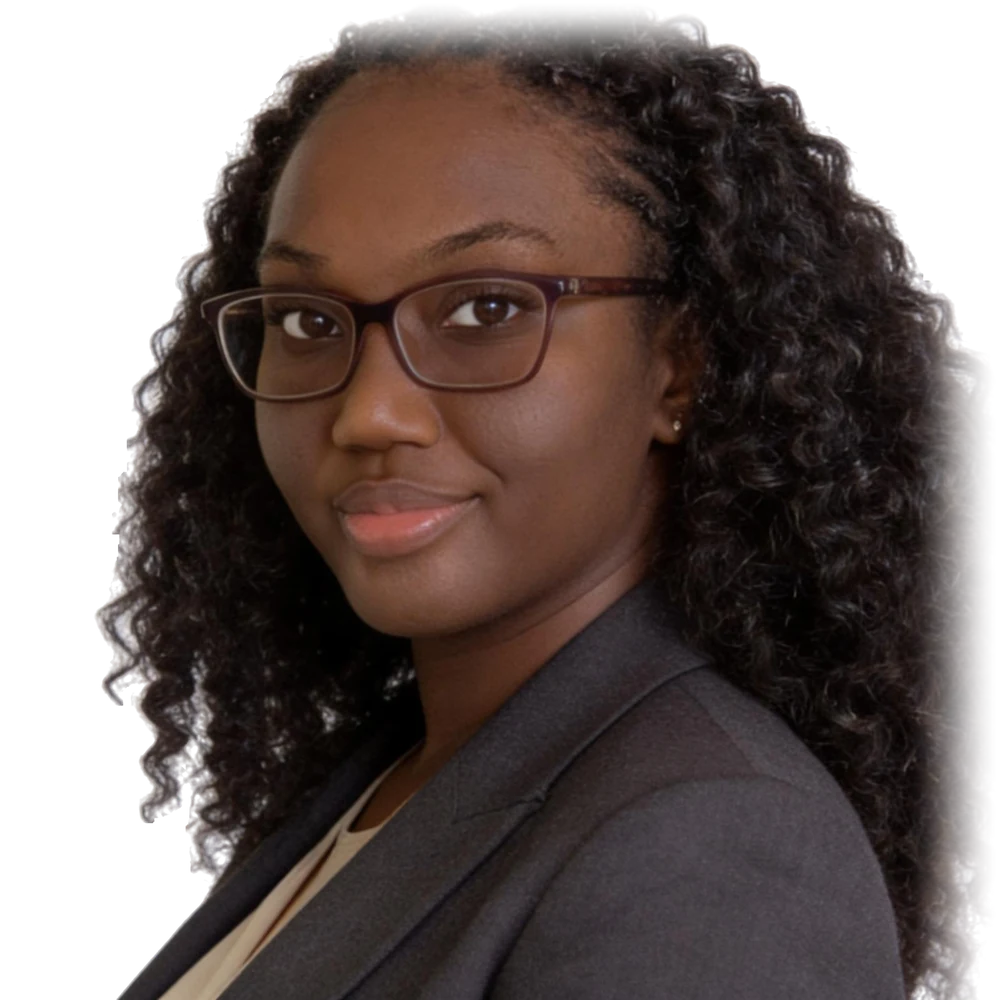
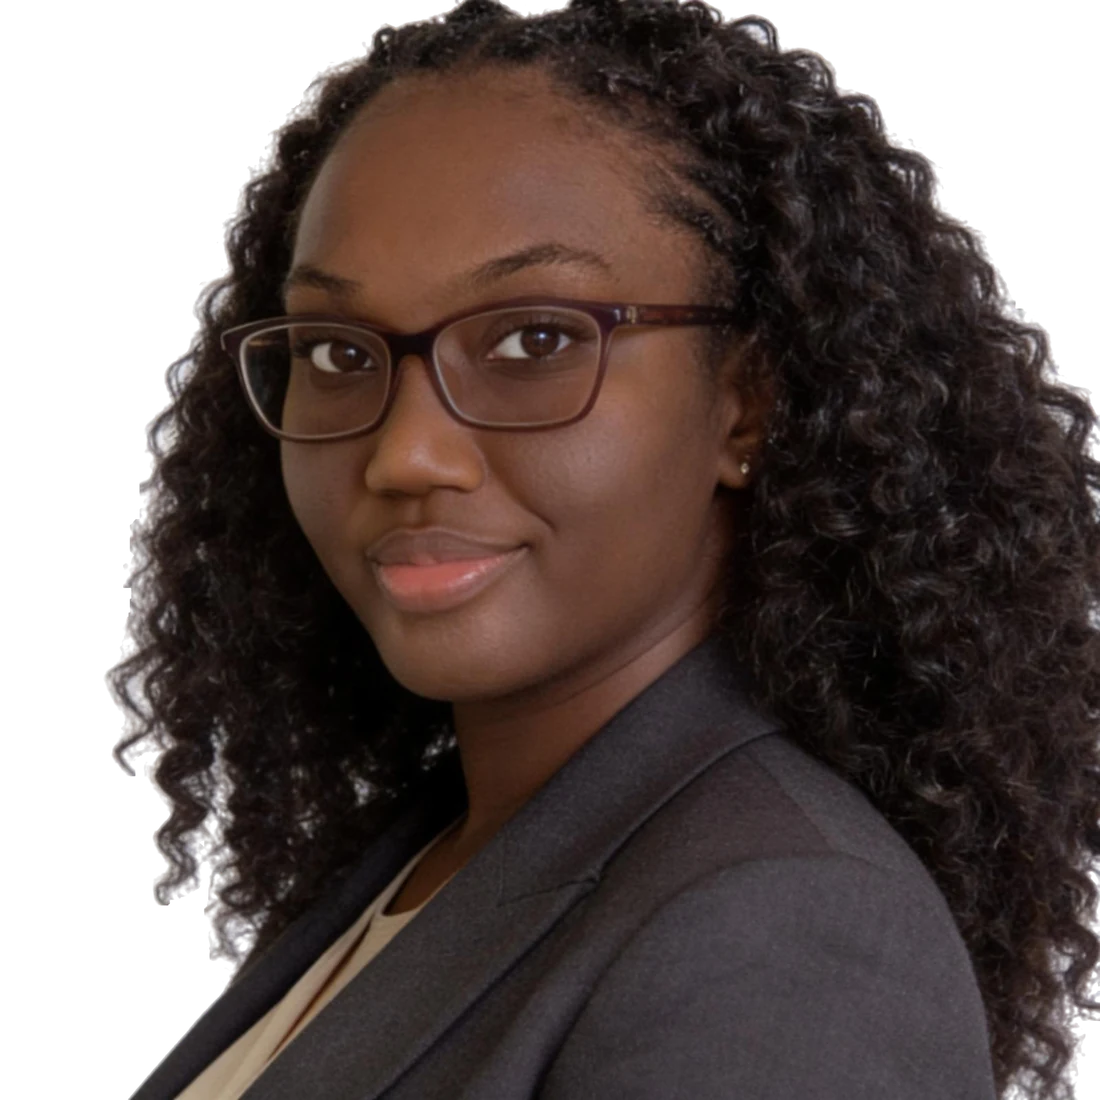
Anchor portrait to the top-right edge so the hair isn't cut off
Claude-Session: https://claude.ai/code/session_01XLDQqDF4goNZVpCpC6BHFM

Changed region(s): [[0.899, 0.279, 1.0, 1.0], [0.31, 0.0, 0.744, 0.062]]

diff --git a/index.html b/index.html
@@ -54,8 +54,23 @@ h1, h2, h3 { font-family: var(--display); text-wrap: balance; margin: 0; }
 @media (max-width: 640px) { .nav .hide-sm { display: none; } }
 
 /* Hero */
-.hero { padding: clamp(40px, 7vw, 84px) 0 clamp(40px, 6vw, 72px); overflow: hidden; }
-.hero .wrap { display: grid; grid-template-columns: 1.08fr .92fr; gap: clamp(28px, 5vw, 64px); align-items: center; }
+.hero { position: relative; overflow: hidden; padding: clamp(40px, 7vw, 84px) 0 clamp(40px, 6vw, 72px); }
+.hero .wrap { position: relative; z-index: 4; }
+.hero-text { max-width: min(560px, 47vw); }
+/* The photo bleeds off the top and right edges of the page; only its bottom blends into the background. */
+.hero-photo { position: absolute; top: 0; right: 0; height: min(100%, 50vw); aspect-ratio: 1; z-index: 1; }
+.portrait { position: relative; z-index: 2; display: block; width: 100%; height: 100%; max-width: none; -webkit-mask-image: linear-gradient(to bottom, #000 72%, transparent 98%); mask-image: linear-gradient(to bottom, #000 72%, transparent 98%); }
+.flyer { position: absolute; border-radius: 14px; overflow: hidden; box-shadow: 0 22px 44px -18px rgba(34, 15, 60, .55); border: 4px solid var(--surface); transform: rotate(var(--r)); will-change: transform, opacity, filter; pointer-events: none; }
+.flyer img { display: block; width: 100%; aspect-ratio: 4 / 5; object-fit: cover; }
+.f1 { --r: -10deg; left: 1%; top: 15%; width: 26%; z-index: 1; }
+.f2 { --r: 8deg; right: 5%; bottom: 14%; width: 24%; z-index: 3; }
+.f3 { --r: -5deg; left: 6%; bottom: 7%; width: 22%; z-index: 3; }
+@media (max-width: 860px) {
+  .hero { padding-top: 0; }
+  .hero-photo { position: relative; height: auto; width: 100%; max-width: 560px; margin: 0 0 8px auto; }
+  .hero-text { max-width: none; }
+  .f1 { left: 2%; top: 18%; width: 26%; }
+}
 .name { font-size: clamp(3.4rem, 9.2vw, 7.4rem); line-height: .9; letter-spacing: -.045em; font-weight: 800; }
 .name .serif { display: block; font-size: 1.08em; letter-spacing: -.02em; background: var(--grad); -webkit-background-clip: text; background-clip: text; color: transparent; padding-bottom: .06em; }
 .role { font-size: clamp(1.05rem, 1.6vw, 1.25rem); font-weight: 600; margin: 22px 0 6px; }
@@ -75,21 +90,10 @@ h1, h2, h3 { font-family: var(--display); text-wrap: balance; margin: 0; }
 .stats b { display: block; font-family: var(--display); font-size: clamp(1.8rem, 3vw, 2.3rem); font-weight: 800; letter-spacing: -.03em; line-height: 1; font-variant-numeric: tabular-nums; }
 .stats span { font-size: .82rem; color: var(--muted); }
 
-.stage { position: relative; height: clamp(420px, 46vw, 560px); }
-.glow { position: absolute; left: 50%; bottom: 4%; width: 78%; aspect-ratio: 1; transform: translateX(-50%); border-radius: 50%; background: radial-gradient(closest-side, rgba(163, 28, 240, .10), rgba(21, 147, 245, .05) 60%, transparent); }
-.flyer { position: absolute; width: 38%; border-radius: 14px; overflow: hidden; box-shadow: 0 22px 44px -18px rgba(34, 15, 60, .55); border: 4px solid var(--surface); transform: translate(var(--x), var(--y)) rotate(var(--r)); will-change: transform, opacity, filter; pointer-events: none; z-index: 1; }
-.flyer img { width: 100%; aspect-ratio: 4 / 5; object-fit: cover; }
-.f1 { --x: -6%; --y: 8%; --r: -11deg; --d: .05s; left: 0; top: 4%; }
-.f2 { --x: 6%; --y: 0%; --r: 9deg; --d: .15s; right: 0; top: 0; }
-.f3 { --x: 0%; --y: 0%; --r: -4deg; --d: .25s; right: 0; bottom: 8%; width: 30%; z-index: 3; }
-.pop { position: absolute; left: 50%; bottom: 0; width: 100%; aspect-ratio: 1; transform: translateX(-46%); z-index: 2; }
-.portrait { width: 100%; height: 100%; max-width: none; object-fit: contain; -webkit-mask-image: linear-gradient(to bottom, #000 74%, transparent 99%); mask-image: linear-gradient(to bottom, #000 74%, transparent 99%); }
 @media (prefers-reduced-motion: reduce) { html { scroll-behavior: auto; } .btn { transition: none; } }
 
 @media (max-width: 860px) {
-  .hero .wrap { grid-template-columns: 1fr; }
-  .stage { height: 430px; max-width: 460px; width: 100%; margin: 8px auto 0; }
-}
+    }
 
 /* Marquee */
 .ribbon { background: var(--ink); color: var(--canvas); overflow: hidden; border-block: 1px solid var(--ink); }
@@ -220,8 +224,14 @@ dialog.lb::backdrop { background: rgba(14, 10, 20, .88); }
 
 <main id="top">
   <section class="hero">
+    <div class="hero-photo" aria-hidden="true">
+      <div class="flyer f1" data-x="0" data-y="0" data-r="-10" data-out="-1"><img src="assets/images/portfolio/tre-hair/01.webp" alt=""></div>
+      <img class="portrait" src="assets/images/ariel-portrait.webp" alt="" width="1100" height="1100">
+      <div class="flyer f2" data-x="0" data-y="0" data-r="8" data-out="1"><img src="assets/images/portfolio/crumbles-cookies/05.webp" alt=""></div>
+      <div class="flyer f3" data-x="0" data-y="0" data-r="-5" data-out="-1"><img src="assets/images/portfolio/epic-eats/01.webp" alt=""></div>
+    </div>
     <div class="wrap">
-      <div>
+      <div class="hero-text">
         <p class="eyebrow">Portfolio</p>
         <h1 class="name">Ariel <span class="serif">Miller</span></h1>
         <p class="role">Graphic Designer · Social Media Content · Web Design</p>
@@ -240,13 +250,6 @@ dialog.lb::backdrop { background: rgba(14, 10, 20, .88); }
           <li><b>30+</b><span>brands supported</span></li>
           <li><b>3+</b><span>years designing</span></li>
         </ul>
-      </div>
-      <div class="stage" aria-hidden="true">
-        <div class="glow"></div>
-        <div class="flyer f1" data-x="-6" data-y="8" data-r="-11" data-out="-1"><img src="assets/images/portfolio/tre-hair/01.webp" alt=""></div>
-        <div class="flyer f2" data-x="6" data-y="0" data-r="9" data-out="1"><img src="assets/images/portfolio/crumbles-cookies/05.webp" alt=""></div>
-        <div class="pop"><img class="portrait" src="assets/images/ariel-portrait.webp" alt="" width="1000" height="1000"></div>
-        <div class="flyer f3" data-x="0" data-y="0" data-r="-4" data-out="1"><img src="assets/images/portfolio/epic-eats/01.webp" alt=""></div>
       </div>
     </div>
   </section>
